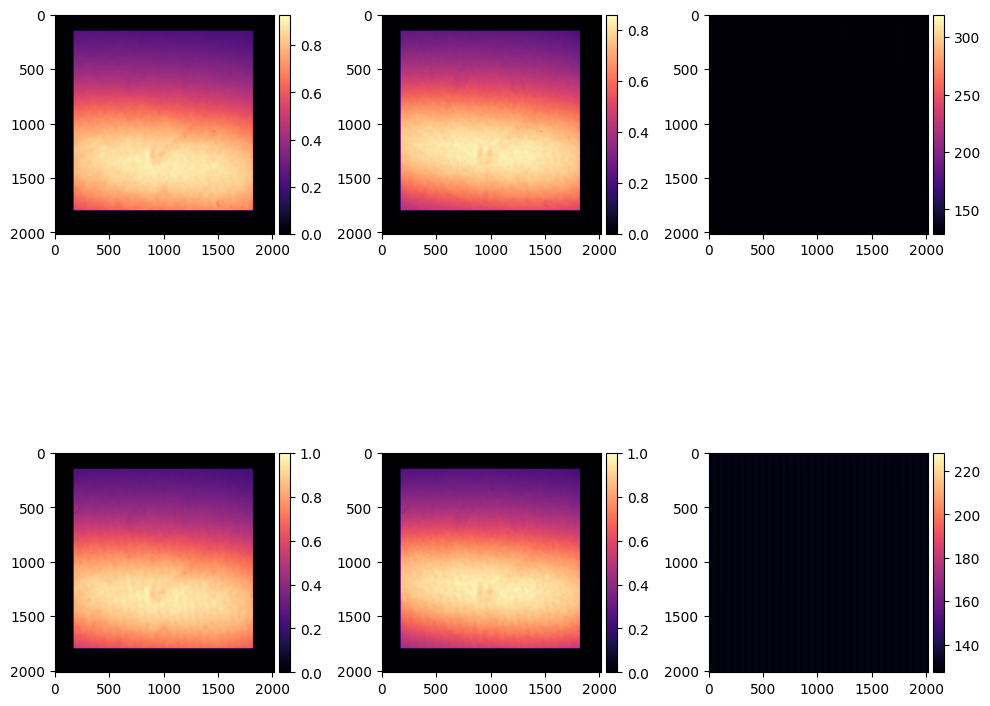
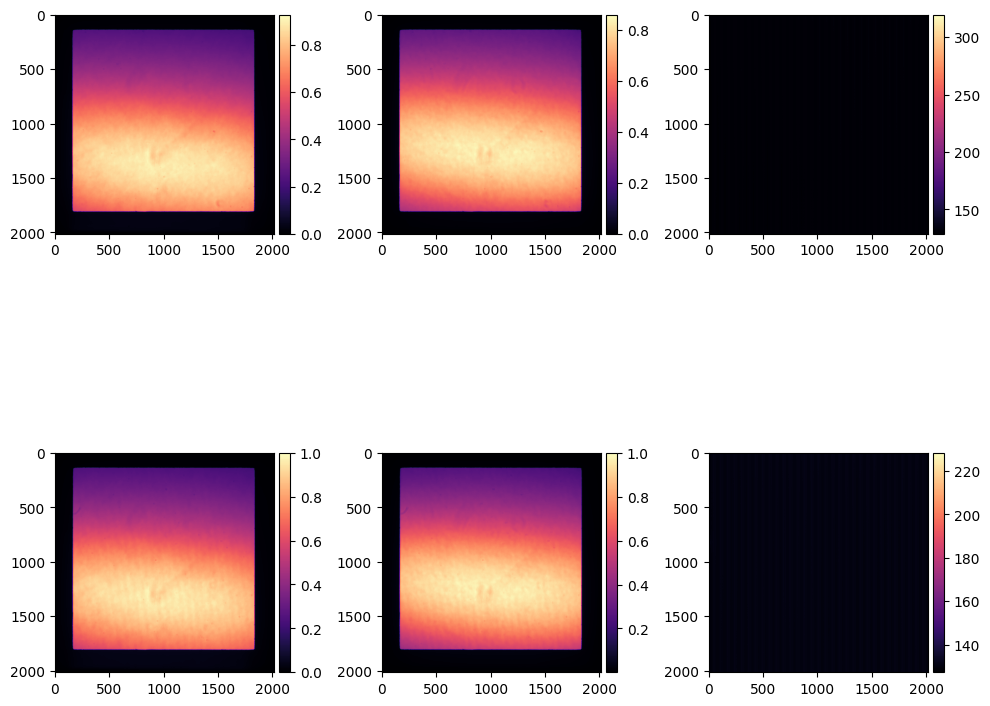
fixed_pd_representation

diff --git a/phase_diversity.py b/phase_diversity.py
@@ -23,13 +23,6 @@ import image_handler as ih
 from master_dark import compute_master_darks
 from master_flatfield import compute_master_flat_field
 
-# Config
-
-# At the start of the mission
-Nims_pd = 40 # Images of PD per camera
-
-# from the middle of the mission
-#Nims_pd = 32 # Images of PD per camera
 # ------------------------------  CODE  ------------------------------------------ # 
 
 def pd_observation_parser(indexes, verbose = False):
@@ -45,13 +38,21 @@ def pd_observation_parser(indexes, verbose = False):
     Returns:
         - images_ordered (np.array) : Numpy array with the images paths ordered.
                                       Order [camera - Filter - PD/F4 - Nimages]
+        - Nims_pd (int) : Number of images per camera filter and PD/F4
     
     """
     image_paths = ih.get_images_paths(indexes)
 
+    if len(image_paths) == 320:
+        Nims_pd = 40
+    elif len(image_paths) == 256:
+        Nims_pd = 32
+    else:
+        raise Exception(f"Error in PD processing. Expected 320 or 256 images but got {len()}.")
+
     try:
         # Reorder array: [Filter - PD/F4 - Nimages - Cameras]
-        images_ordered = np.array(image_paths).reshape(2, 2, 40, 2) 
+        images_ordered = np.array(image_paths).reshape(2, 2, Nims_pd, 2) 
     except:
         raise Exception(f"\nIncorrect number of images for pd modes.\n{len(image_paths)} Images found but 320 were expected (2 (filters) x 2 (PD and F4) x 2 (cams) x 4 (Nimages per mode)).")
 
@@ -69,24 +70,26 @@ def pd_observation_parser(indexes, verbose = False):
         print(f"Filter 0 : {H1['FW2']}")
         print(f"Filter 1 : {H2['FW2']}")
 
-    return images_ordered
+    return images_ordered, Nims_pd
 
 def process_pd_observation(indexes, filt, verbose = False):
 
     print("Processing PD observation...")
 
-    paths = pd_observation_parser(indexes, verbose = verbose)
+    paths, Nims_pd = pd_observation_parser(indexes, verbose = verbose)
 
     paths = paths[:, filt] # Select filter to process. 
 
     images = np.zeros((2, 2, Nims_pd, cf.xsize, cf.ysize))
-    # Loop over 2 cameras
-    for cam in range(2):
-        # Loop over pd and f4 images
-        for pd in range(2):
-            # Loop over all images.
-            for Nimg in range(Nims_pd):
-                I, _ = ih.read(paths[cam, pd, Nimg])
-                images[cam, pd, Nimg] = I
+    # Loop over pd and f4 images
+    for pd in range(2):
+        # Loop over all images.
+        for Nimg in range(Nims_pd):
+            I, _ = ih.read(paths[0, pd, Nimg])
+            images[0, pd, Nimg] = I
+
+            # Flip cam 2 to match flats and dc
+            I, _ = ih.read(paths[1, pd, Nimg])
+            images[1, pd, Nimg] = np.flip(I, axis = -1)
 
     return images

diff --git a/Analysis/pd_test.py b/Analysis/pd_test.py
@@ -44,16 +44,6 @@ dc = compute_master_darks(dark_paths[:-6], verbose = True) # There is something 
 ff_obs1, ff_obs1_info = compute_master_flat_field(ff_obs1_paths, dc = dc, verbose = True)
 ff_obs2, ff_obs2_info = compute_master_flat_field(ff_obs2_paths, dc = dc, verbose = True)
 
-# Find field-stop
-fs_c1, fs_c2 = compute_alignment(flat_cam1 = ff_obs1[0, -1, 0] / np.max(ff_obs1[0, -1, 0]),
-                                 flat_cam2 = ff_obs1[1, -1, 0] / np.max(ff_obs1[1, -1, 0]), pinhole_c1_path=pinholes_paths[0], 
-                                 pinhole_c2_path=pinholes_paths[1], 
-                                 method = 'pinhole', plot_flag=True, verbose = True)
-
-# Field stop and align
-ff_obs1 = apply_fieldstop_and_align_array(ff_obs1, fs_c1, fs_c2)
-ff_obs2 = apply_fieldstop_and_align_array(ff_obs2, fs_c1, fs_c2)
-
 # Select continuum wavelength and modulation 0 and normalize
 ff_1 = ff_obs1[:, -1, 0] / np.max(ff_obs1[:, -1, 0])
 ff_2 = ff_obs2[:, -1, 0] / np.max(ff_obs2[:, -1, 0])
@@ -102,8 +92,8 @@ im = axs[0, 1].set_title("Iron focused")
 im = axs[0, 2].set_title("Magnesium defocused")
 im = axs[0, 3].set_title("Magnesium focused")
 
-im = axs[0, 0].imshow(pd_data_fe[0, 0, 1], cmap = "gray", vmin = np.mean(pd_data_fe[0, 0, 0]) - np.std(pd_data_fe[0, 0, 0]) * 2,
-                                                          vmax = np.mean(pd_data_fe[0, 0, 0]) + np.std(pd_data_fe[0, 0, 0]) * 2 )
+im = axs[0, 0].imshow(pd_data_fe[0, 0, 1], cmap = "gray", vmin = np.mean(pd_data_fe[0, 0, 1]) - np.std(pd_data_fe[0, 0, 1]) * 2,
+                                                          vmax = np.mean(pd_data_fe[0, 0, 1]) + np.std(pd_data_fe[0, 0, 1]) * 2 )
 divider = make_axes_locatable(axs[0, 0])
 cax = divider.append_axes("right", size="5%", pad=0.05)
 plt.colorbar(im, cax=cax)

diff --git a/image_handler.py b/image_handler.py
@@ -199,11 +199,8 @@ class nominal_flat:
                         self.data[0, lambd, mod] += im0 - dc[0]
                         self.data[1, lambd, mod] += np.flip(im1, axis = -1) - dc[1] # Flip cam 2 image. 
         
-        # Average over all the reps and lambda repeats
-        for lambd in range(nlambda):
-            for mod in range(nmods):
-                self.data[0, lambd, mod] /= (nreps * lambda_repeat)
-                self.data[1, lambd, mod] /= (nreps * lambda_repeat)
+        self.data /= (nreps * lambda_repeat)
+        self.data /= (nreps * lambda_repeat)
 
         # Completing info of Observation Mode with info from header
         self.info["nAcc"] = head0["nAcc"]
@@ -250,6 +247,7 @@ def get_images_paths(queries):
                 raise Exception(f"Query : {qry} not valid. Please prove a day within the list: D09, D10, D11, D12, D13,D14, D15, D16")
             df = pd.read_csv(f"{Organization_folder_files}/{day}.csv")
             selection_df = df[(df.iloc[:, 0] >= start) & (df.iloc[:, 0] <= end)]
+
 
             selection.append(selection_df.iloc[:, 1].tolist())
     else:
